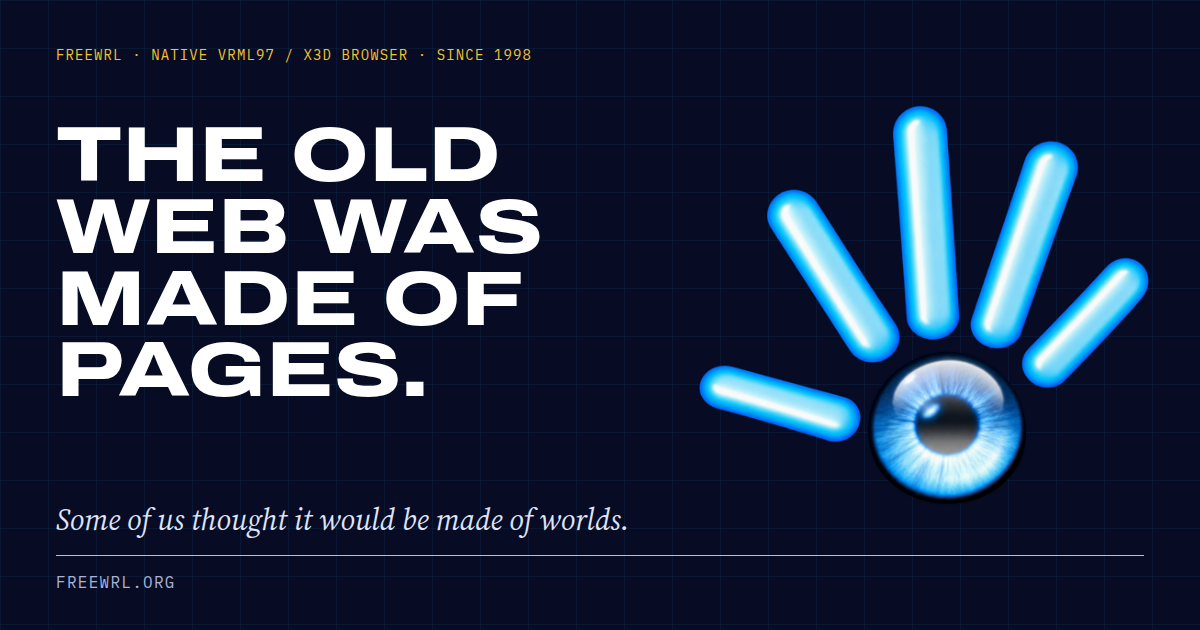
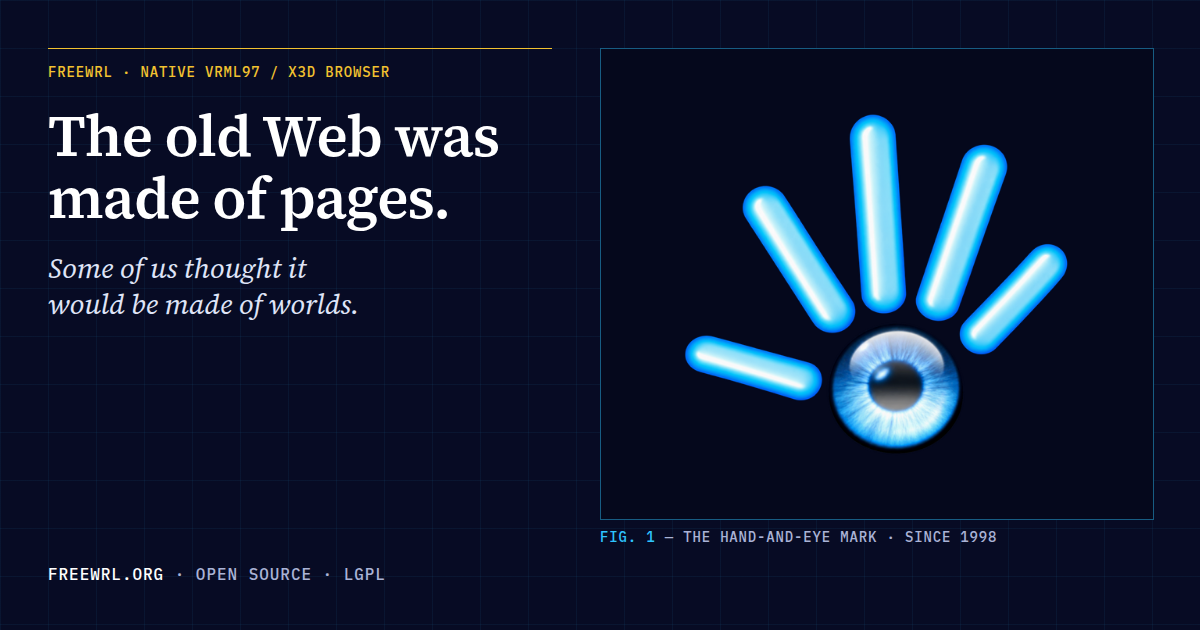
v2 clean-up: tablet home label, Learn line wrap, 44px viewer tools, Download rhythm, History decades, V2 OG image, verified Linux build
- Home 640–1023px: title and italic line share the width; description sits beside the file facts.
- Learn: source lines wrap with a hanging indent at >=640px; phones still scroll inside the box. Text unchanged.
- Viewer controls: 44px minimum for every input mode.
- Download: §03/§04 use the tighter reference-section spacing.
- History: timeline grouped by decade, with a decade index in the sticky rail. Entries unchanged.
- OG image redrawn in Source Serif 4 + IBM Plex Mono; Archivo dependency removed.
- Build/Download: clean ubuntu:24.04 container showed configure needs unzip and wget, and
  freewrl needs ldconfig after make install. Instructions fixed and marked as checked.

diff --git a/src/styles/components.css b/src/styles/components.css
@@ -57,6 +57,8 @@
 
 /* ---------- the margin rail: § and title in cols 1–3, material in cols 4–12 ---------- */
 .section { padding-block: var(--space) 0; }
+/* short reference sections that continue the one above them */
+.section--tight { padding-top: var(--space-s); }
 main > .section:last-child, main > section:last-child { padding-bottom: var(--space); }
 .railed > * + * { margin-top: var(--space-s); }
 .rail > * + * { margin-top: 20px; }
@@ -131,6 +133,18 @@ main > .section:last-child, main > section:last-child { padding-bottom: var(--sp
 .stage__body strong { color: #fff; }
 .stage__body > * + * { margin-top: 18px; }
 .stage__links { display: flex; flex-wrap: wrap; gap: 10px; }
+/* Tablet: the label reads across the width (title | italic line), and the
+   description sits beside the file facts, so neither leaves a dead half. */
+@media (min-width: 640px) and (max-width: 1023px) {
+  .stage__head { display: grid; grid-template-columns: minmax(0, 1fr) minmax(0, 1fr); column-gap: var(--gap); align-items: end; }
+  .stage__annot { grid-column: 1 / -1; }
+  .stage__sub { margin-top: 0; padding-bottom: 4px; }
+  .stage__body { display: grid; grid-template-columns: minmax(0, 1fr) minmax(0, 1fr); gap: 0 var(--gap); align-items: start; }
+  .stage__body > * + * { margin-top: 0; }
+  .stage__body > p:first-child { grid-column: 1; }
+  .stage__body .stage__links { grid-column: 1; margin-top: 18px; }
+  .stage__body .facts { grid-column: 2; grid-row: 1 / span 2; }
+}
 @media (min-width: 1024px) {
   .stage__grid { grid-template-columns: repeat(12, minmax(0, 1fr)); row-gap: 0; }
   .stage .viewer { grid-column: 1 / span 8; grid-row: 1 / span 2; }
@@ -160,6 +174,7 @@ main > .section:last-child, main > section:last-child { padding-bottom: var(--sp
 .viewer--light .viewer__fig { color: var(--accent-text); }
 .viewer__file { font-weight: 500; }
 .viewer__tools { display: flex; flex-wrap: wrap; }
+.viewer__tools .tool { min-height: 44px; } /* every input mode, not only touch */
 .viewer__credit { display: flex; flex-wrap: wrap; gap: 4px 18px; padding-top: 6px; opacity: 0.85; }
 .viewer__credit span:first-child::before { content: ""; display: inline-block; width: 8px; height: 8px; background: var(--cyan); margin-right: 8px; vertical-align: 1px; }
 .viewer__hint { margin-left: auto; }
@@ -209,6 +224,13 @@ main > .section:last-child, main > section:last-child { padding-bottom: var(--sp
 .listing + .caption { padding: 8px 10px; }
 .listing__edit { display: block; width: 100%; min-height: 26rem; padding: 14px 16px; border: 0; resize: vertical; background: var(--paper); color: var(--ink); font: 0.8125rem/1.6 var(--mono); }
 .lab-bench__source .listing__body { padding: 14px 16px; }
+.src-line { display: block; }
+/* Wide screens: long lines wrap with a hanging indent instead of scrolling.
+   Phones keep one source line per screen line and scroll inside the box. */
+@media (min-width: 640px) {
+  .lab-bench__source .listing__body { white-space: pre-wrap; }
+  .src-line { padding-left: 4ch; text-indent: -4ch; }
+}
 mark.param { background: var(--mark); color: inherit; padding: 0 2px; outline: 1px solid color-mix(in srgb, var(--gold) 70%, black); }
 @media (prefers-color-scheme: dark) { mark.param { background: #6b5a17; color: #fff4c8; } }
 
@@ -440,7 +462,14 @@ mark.param { background: var(--mark); color: inherit; padding: 0 2px; outline: 1
 @media (min-width: 1280px) { .essay { grid-template-columns: minmax(0, 6fr) minmax(0, 3fr); } }
 .essay__margin { display: grid; gap: var(--space-s); }
 @media (min-width: 640px) and (max-width: 1279px) { .essay__margin { grid-template-columns: repeat(2, minmax(0, 1fr)); gap: var(--gap); } }
-.timeline { list-style: none; margin: 0; padding: 0; border-top: 1px solid var(--rule); }
+.timeline { border-top: 1px solid var(--rule); }
+.timeline ol { list-style: none; margin: 0; padding: 0; }
+.timeline__group + .timeline__group { margin-top: var(--space-s); }
+.timeline__decade { display: flex; justify-content: space-between; align-items: baseline; gap: 12px; padding: 12px 0 8px; border-bottom: 1px solid var(--rule); font-size: var(--t-small); font-weight: 500; letter-spacing: 0.06em; color: var(--accent-text); scroll-margin-top: 24px; }
+.timeline__decade span { font-size: var(--t-meta); letter-spacing: 0.06em; text-transform: uppercase; color: var(--ink-3); }
+.decade-index { display: flex; flex-wrap: wrap; gap: 0 4px; margin-top: 4px; font-style: normal; }
+.decade-index a { display: inline-flex; align-items: center; min-height: 44px; padding-right: 12px; font-size: var(--t-meta); }
+.decade-index__n { margin-left: 4px; color: var(--ink-3); }
 .timeline__row { display: grid; grid-template-columns: minmax(0, 1fr); gap: 2px var(--gap); padding: 10px 0; border-bottom: 1px solid var(--rule-soft); font-size: var(--t-small); line-height: 1.5; }
 @media (min-width: 640px) { .timeline__row { grid-template-columns: 8.5rem minmax(0, 1fr); } .timeline__src { grid-column: 2; } }
 .timeline__date { color: var(--accent-text); padding-top: 0.15em; }

diff --git a/src/pages/History.tsx b/src/pages/History.tsx
@@ -13,6 +13,19 @@ function sourceLink(src: string) {
   return <a href={`/legacy/${file}`}>{file}</a>
 }
 
+// Group the timeline by decade (first four-digit year in the date) for scanning.
+// The entries and their order are unchanged.
+function byDecade(events: Event[]) {
+  const groups: { decade: string; events: Event[] }[] = []
+  for (const e of events) {
+    const year = Number(e.date.match(/\d{4}/)?.[0])
+    const decade = `${Math.floor(year / 10) * 10}s`
+    if (groups.at(-1)?.decade !== decade) groups.push({ decade, events: [] })
+    groups.at(-1)!.events.push(e)
+  }
+  return groups
+}
+
 const LEADS = ["Tuomas J. Lukka", "John A. Stewart"]
 const ALSO = ["Mike Fletcher", "Larry Ewing", "Brutzman", "Daily", "Drayde", "Adrian Rossiter", "Tom Smith", "Sarah Dumoulin"]
 const PRESENT = ["Ryan Bundy"]
@@ -22,6 +35,7 @@ export default function History() {
   const leads = people.filter((p) => LEADS.includes(p.name))
   const contributors = people.filter((p) => !LEADS.includes(p.name) && !ALSO.includes(p.name) && !PRESENT.includes(p.name))
   const also = people.filter((p) => ALSO.includes(p.name))
+  const decades = byDecade(history.timeline as Event[])
   return (
     <>
       <PageHead
@@ -106,17 +120,35 @@ export default function History() {
       </section>
 
       <section className="frame section railed" aria-labelledby="timeline">
-        <SectionHead index="03" id="timeline" title="Timeline" />
+        <SectionHead
+          index="03"
+          id="timeline"
+          title="Timeline"
+          kicker={
+            <span className="decade-index mono">
+              {decades.map((g) => (
+                <a key={g.decade} href={`#timeline-${g.decade}`}>{g.decade}<span className="decade-index__n"> {g.events.length}</span></a>
+              ))}
+            </span>
+          }
+        />
         <div className="essay">
-        <ol className="timeline">
-          {(history.timeline as Event[]).map((e, i) => (
-            <li key={i} className="timeline__row">
-              <span className="timeline__date mono">{e.date}</span>
-              <span className="timeline__event">{e.event}</span>
-              <span className="timeline__src mono">{sourceLink(e.source)}{e.archive === "wayback" ? " · Wayback" : ""}</span>
-            </li>
+        <div className="timeline">
+          {decades.map((g) => (
+            <section key={g.decade} className="timeline__group" aria-labelledby={`timeline-${g.decade}`}>
+              <h3 id={`timeline-${g.decade}`} className="timeline__decade mono">{g.decade} <span>{g.events.length} entries</span></h3>
+              <ol>
+                {g.events.map((e, i) => (
+                  <li key={i} className="timeline__row">
+                    <span className="timeline__date mono">{e.date}</span>
+                    <span className="timeline__event">{e.event}</span>
+                    <span className="timeline__src mono">{sourceLink(e.source)}{e.archive === "wayback" ? " · Wayback" : ""}</span>
+                  </li>
+                ))}
+              </ol>
+            </section>
           ))}
-        </ol>
+        </div>
         <aside className="essay__margin" aria-label="Pictures from the timeline">
           <ArchivalFigure path="freewrl_screenshot3.jpg" fig="T1" title="An early scene" archive="wayback"
             alt="An early FreeWRL scene with a sphere, a box, an avatar figure and 3D text reading Java."

diff --git a/src/pages/Learn.tsx b/src/pages/Learn.tsx
@@ -2,7 +2,21 @@ import { useMemo, useState } from "react"
 import { XiteViewer } from "../components/XiteViewer"
 import { Facts, PageHead, SectionHead } from "../components/primitives"
 import { Link } from "../router"
-import { checkSource, COLORS, LESSONS, type Values } from "./lessons"
+import { checkSource, COLORS, LESSONS, type Part, type Values } from "./lessons"
+
+/** Split the marked source into lines so wide screens can wrap each line with a
+ *  hanging indent. Each line keeps its own "\n", so the text is unchanged. */
+function sourceLines(parts: Part[]) {
+  const lines: { part: Part; i: number }[][] = [[]]
+  parts.forEach((part, i) => {
+    if (typeof part !== "string") { lines[lines.length - 1].push({ part, i }); return }
+    part.split(/(?<=\n)/).forEach((seg) => {
+      if (seg) lines[lines.length - 1].push({ part: seg, i })
+      if (seg.endsWith("\n")) lines.push([])
+    })
+  })
+  return lines.filter((l) => l.length)
+}
 
 export default function Learn() {
   const [step, setStep] = useState(0)
@@ -150,9 +164,13 @@ export default function Learn() {
             {manual === null ? (
               <pre className="listing__body" tabIndex={0} aria-label="World source">
                 <code>
-                  {built.parts.map((part, i) =>
-                    typeof part === "string" ? part : <mark key={i} className="param" data-key={part.key}>{part.text}</mark>,
-                  )}
+                  {sourceLines(built.parts).map((line, n) => (
+                    <span key={n} className="src-line">
+                      {line.map(({ part, i }) =>
+                        typeof part === "string" ? part : <mark key={i} className="param" data-key={part.key}>{part.text}</mark>,
+                      )}
+                    </span>
+                  ))}
                 </code>
               </pre>
             ) : (

diff --git a/src/pages/Build.tsx b/src/pages/Build.tsx
@@ -21,15 +21,17 @@ mkdir build && cd build
 ../configure --with-target=x11 --with-javascript=duk
 make -j$(nproc)
 sudo make install
+sudo ldconfig            # so freewrl finds libFreeWRL in /usr/local/lib
 
 freewrl --version        # Program version: 6.7.0`}</Commands>
           <div className="prose">
             <h3 className="mono">Packages</h3>
             <p>
-              The list below is read from <code>configure.ac</code>. It has <strong>not</strong> been checked on a clean
-              system yet. If <code>configure</code> stops, it names the library it could not find.
+              Checked on 2026-09-30 in a clean <code>ubuntu:24.04</code> container: with this list, every step above
+              passed and <code>freewrl --version</code> printed 6.7.0. It was not run on a desktop with a real GPU.
+              If <code>configure</code> stops, it names the library or command it could not find.
             </p>
-            <Commands>{`sudo apt install build-essential autoconf automake libtool pkg-config \\
+            <Commands>{`sudo apt install git build-essential autoconf automake libtool pkg-config unzip wget \\
   zlib1g-dev libjpeg-dev libpng-dev libfreetype-dev libxml2-dev \\
   libx11-dev libxt-dev libxmu-dev libxaw7-dev libgl-dev libglu1-mesa-dev \\
   libfontconfig-dev libopenal-dev libalut-dev libode-dev`}</Commands>

diff --git a/src/pages/Download.tsx b/src/pages/Download.tsx
@@ -84,12 +84,13 @@ cd freewrl/freex3d
 ./autogen.sh
 ./configure --with-target=x11 --with-javascript=duk
 make -j$(nproc)
-sudo make install`}</Commands>
+sudo make install
+sudo ldconfig`}</Commands>
           <p className="prose">Details, dependencies and what has been tested: <Link to="/build">Build</Link>.</p>
         </div>
       </section>
 
-      <section className="frame section railed" aria-labelledby="others">
+      <section className="frame section section--tight railed" aria-labelledby="others">
         <SectionHead index="03" id="others" title="Windows, Android, iOS" />
         <div className="prose">
           <p>
@@ -103,7 +104,7 @@ sudo make install`}</Commands>
       </section>
 
       {older.length > 0 && (
-        <section className="frame section railed" aria-labelledby="older">
+        <section className="frame section section--tight railed" aria-labelledby="older">
           <SectionHead index="04" id="older" title="Earlier releases" />
           <div>
           <table className="table table--stack">

diff --git a/index.html b/index.html
@@ -21,7 +21,7 @@
     <meta property="og:image" content="https://freewrl.org/og-image.png" />
     <meta property="og:image:width" content="1200" />
     <meta property="og:image:height" content="630" />
-    <meta property="og:image:alt" content="The FreeWRL hand-and-eye mark on cobalt blue, with the words: The old Web was made of pages." />
+    <meta property="og:image:alt" content="The FreeWRL hand-and-eye mark in a framed figure on a dark blue grid, beside the words: The old Web was made of pages." />
     <meta name="twitter:card" content="summary_large_image" />
   </head>
   <body>

diff --git a/IMPLEMENTATION_PLAN.md b/IMPLEMENTATION_PLAN.md
@@ -51,8 +51,8 @@ Interactive technical editorial + digital museum + Web3D workshop.
   Dark mode follows the OS.
 - Type (iteration 2, see `DESIGN_V2_DIRECTION.md`): Source Serif 4 for
   headings and reading, IBM Plex Mono for metadata, filenames, code. All
-  self-hosted. Archivo was dropped from the site in V2. It stays a dependency
-  only for `scripts/make-og.mjs`.
+  self-hosted. Archivo was dropped from the site in V2 and removed as a
+  dependency in the V2 clean-up (the OG image now uses the V2 fonts).
 - Square geometry, 1px rules, labelled figures ("FIG. 3"), big media,
   asymmetric 12-column grid. No cards, no pills, no gradients-as-decor.
 
@@ -91,8 +91,10 @@ change. `npm run preview` runs `wrangler dev` locally only.
   not verifiable from here; it must be off before launch (X_ITE is loaded as
   a module, which removes the known failure, but the beacon is still a
   tracker we do not want).
-- Linux apt package list is inferred from `configure.ac`, not verified in a
-  clean container; the Build page says so.
+- Linux apt package list: checked 2026-09-30 in a clean `ubuntu:24.04`
+  container (engine `340a9a6`). The first list lacked `unzip` and `wget`
+  (configure stops without them); both added. Build, install and
+  `freewrl --version` pass. Not run on a real desktop or GPU.
 - Key bindings verified against engine source, not in a live window.
 - Conformance data is upstream's claim; nothing has been re-measured yet.
 - `Ascendance Open Worlds` legal status is not stated anywhere in the

diff --git a/DESIGN_V2_DIRECTION.md b/DESIGN_V2_DIRECTION.md
@@ -43,9 +43,9 @@ Two families, both already self-hosted and OFL, so nothing new is licensed:
 | headings, body, captions | **Source Serif 4** (variable, 400–700 + italic) | Adobe's serif for long technical reading. Its sturdy, open forms read like a standards document or a museum catalogue, not a startup. |
 | metadata, labels, navigation, filenames, code, data | **IBM Plex Mono** 400/500 | Carries the lab / Web3D voice: coordinates, versions, file names. Used small. |
 
-**Archivo is removed from the site CSS.** It is still a dev dependency only
-because `scripts/make-og.mjs` uses it for the existing OG image. That image
-is unchanged in this iteration.
+**Archivo is removed from the site CSS.** In the V2 clean-up the OG image
+(`scripts/make-og.mjs`) was redrawn with Source Serif 4 and Plex Mono, and
+the Archivo package was removed.
 
 Headings are sentence case, weight 600, tight but not crushed
 (`letter-spacing: -0.01em`). Uppercase is kept only for small mono labels,
